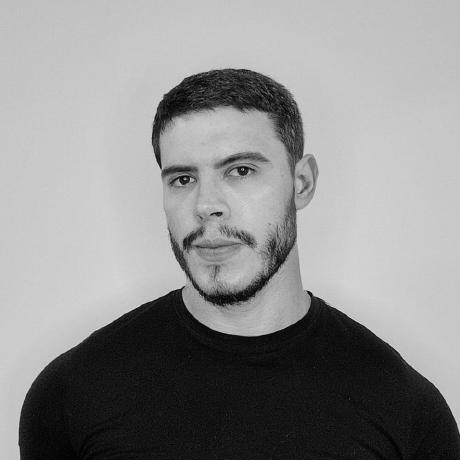
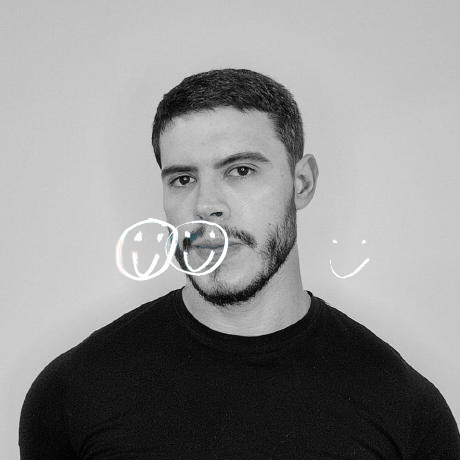
inclusao de subtitulos das seções

diff --git a/index.html b/index.html
@@ -111,6 +111,7 @@
   .sec-head{display:flex;align-items:baseline;gap:16px;margin-bottom:32px;border-top:1px solid var(--line);padding-top:26px}
   .sec-head h2{font-family:'Space Grotesk',sans-serif;font-size:30px;letter-spacing:-.02em;font-weight:600}
   .sec-head span{font-family:'JetBrains Mono',monospace;font-size:12px;color:var(--ink-soft);margin-left:auto}
+  .sec-sub{font-size:15px;color:var(--ink-soft);margin-top:6px;max-width:60ch}
 
   .card{
     background:var(--paper);border:1px solid var(--line);border-radius:var(--radius);
@@ -239,9 +240,9 @@
   <!-- HERO -->
   <header class="hero">
     <div>
-      <div class="eyebrow">São Paulo · Data Full Stack</div>
+      <div class="eyebrow">São Paulo · Dados e Analytics</div>
       <h1>Hernandes<br>Matias Junior</h1>
-      <p class="lede">Tech Lead e Engenheiro de Dados Sênior no Itaú Unibanco. Construo as trilhas de dados por onde passam milhões de pagamentos por dia — do evento bruto ao modelo que decide.</p>
+      <p class="lede">Tech Lead e Engenheiro de Dados Sênior no Itaú Unibanco. Sempre tive medo de ficar sem trabalho e isso fez com que eu me qualificasse para poder fazer um monte de coisas.</p>
       <div class="tags">
         <span class="tag on">Engenharia de dados</span>
         <span class="tag on">Ciência de dados</span>
@@ -261,7 +262,10 @@
   <!-- FORMAÇÃO -->
   <section id="formacao">
     <div class="sec-head">
+        <div>
       <h2>Formação acadêmica</h2>
+      <p class="sec-sub">Não dá para falar que eu não estudei</p>
+      </div>
       <span>02 pós-graduações · 02 graduações</span>
     </div>
     <div class="grid-2">
@@ -272,7 +276,7 @@
           <div class="yr">2025 — 2026</div>
         </div>
         <div class="edu-item">
-          <div><strong>Especialização em Ciência de Dados e Analytics</strong><small>USP</small></div>
+          <div><strong>Especialização em Ciência de Dados</strong><small>USP</small></div>
           <div class="yr">2022 — 2023</div>
         </div>
       </div>
@@ -293,10 +297,13 @@
   <!-- EXPERIÊNCIA -->
   <section id="experiencia">
     <div class="sec-head">
-      <h2>Experiência profissional</h2>
+      <div>
+        <h2>Experiência profissional</h2>
+        <p class="sec-sub">Aqui só tem as experiências em dados, mas até vendedor de shopping eu já fui</p>
+      </div>
       <span>2020 — presente</span>
     </div>
-
+    
     <div class="jobs">
 
       <div class="card">
@@ -354,7 +361,10 @@
   <!-- PROJETOS -->
   <section id="projetos">
     <div class="sec-head">
+        <div>
       <h2>Projetos</h2>
+      <p class="sec-sub">Melhor do que falar, é mostrar o que eu sei fazer, né?</p>
+      </div>
       <span>portfólio</span>
     </div>
 
@@ -388,6 +398,54 @@
             <span class="proj-tag">Scorecard</span>
             <span class="proj-tag">WOE / IV</span>
             <span class="proj-tag">Python</span>
+          </div>
+        </div>
+      </a>
+
+      <!-- PROJETO 3 — espaço reservado -->
+      <a class="proj v-light" href="#">
+        <div class="proj-media">
+          <div class="proj-slot">Imagem em breve</div>
+        </div>
+        <div class="proj-body">
+          <h3 class="proj-title">Próximo projeto</h3>
+          <p class="proj-desc">Descrição do projeto — substitua por dois períodos curtos explicando o problema e o resultado.</p>
+          <div class="proj-tags">
+            <span class="proj-tag">Tag</span>
+            <span class="proj-tag">Tag</span>
+            <span class="proj-tag">Tag</span>
+          </div>
+        </div>
+      </a>
+
+      <!-- PROJETO 3 — espaço reservado -->
+      <a class="proj v-light" href="#">
+        <div class="proj-media">
+          <div class="proj-slot">Imagem em breve</div>
+        </div>
+        <div class="proj-body">
+          <h3 class="proj-title">Próximo projeto</h3>
+          <p class="proj-desc">Descrição do projeto — substitua por dois períodos curtos explicando o problema e o resultado.</p>
+          <div class="proj-tags">
+            <span class="proj-tag">Tag</span>
+            <span class="proj-tag">Tag</span>
+            <span class="proj-tag">Tag</span>
+          </div>
+        </div>
+      </a>
+
+      <!-- PROJETO 3 — espaço reservado -->
+      <a class="proj v-light" href="#">
+        <div class="proj-media">
+          <div class="proj-slot">Imagem em breve</div>
+        </div>
+        <div class="proj-body">
+          <h3 class="proj-title">Próximo projeto</h3>
+          <p class="proj-desc">Descrição do projeto — substitua por dois períodos curtos explicando o problema e o resultado.</p>
+          <div class="proj-tags">
+            <span class="proj-tag">Tag</span>
+            <span class="proj-tag">Tag</span>
+            <span class="proj-tag">Tag</span>
           </div>
         </div>
       </a>